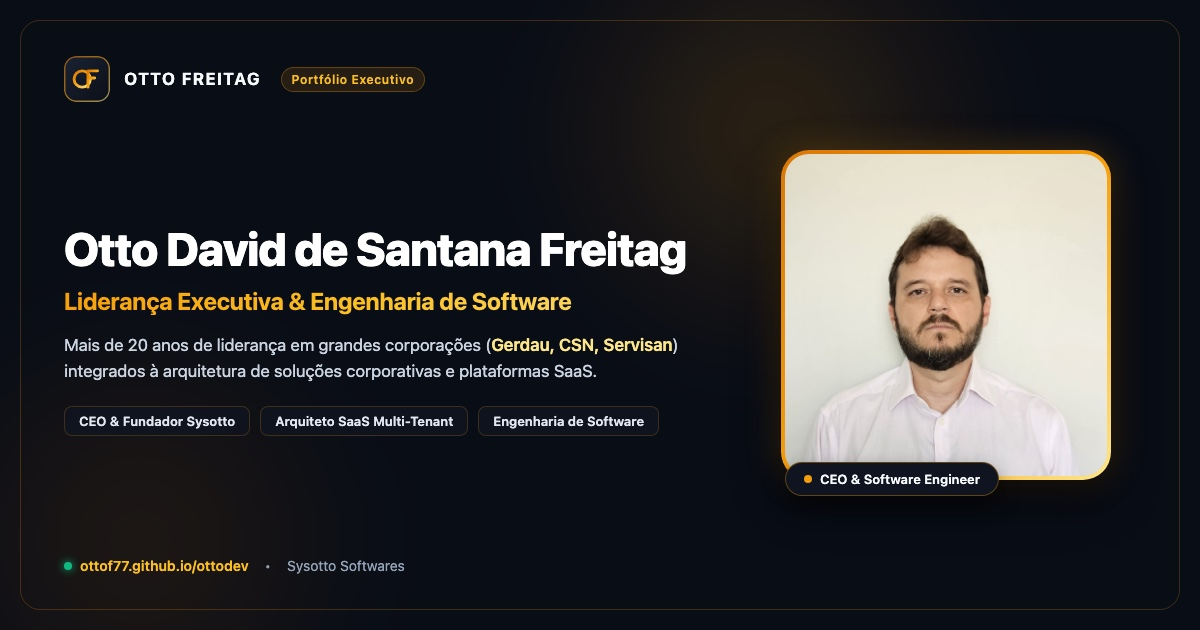
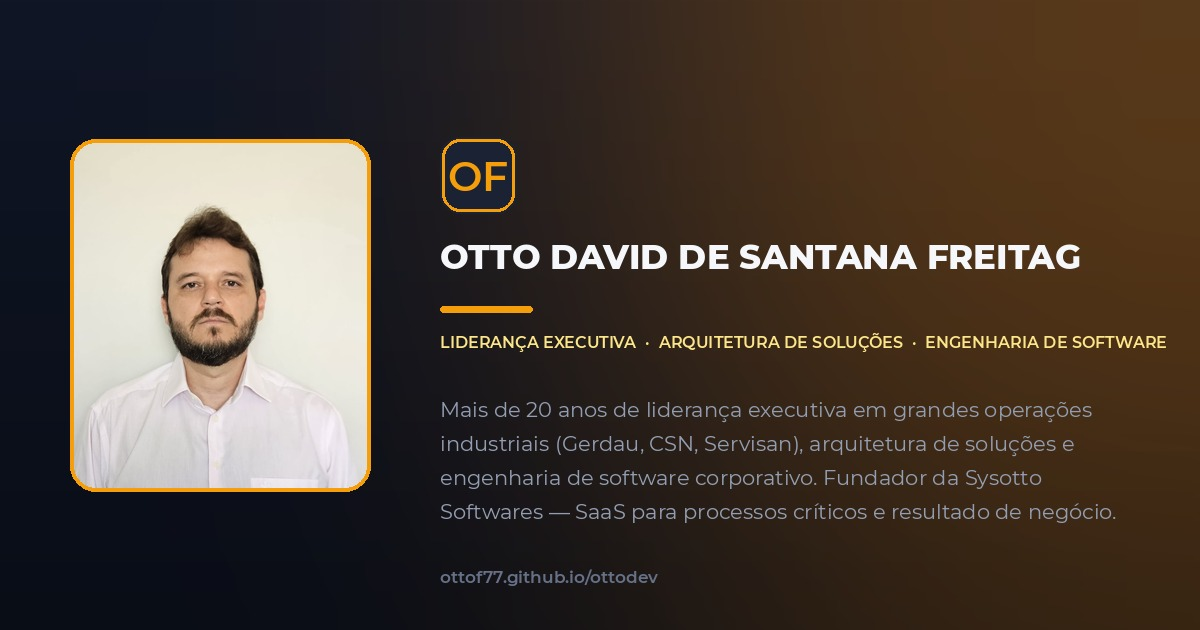
feat(seo): add 1200x630 executive OG cover card and unify meta/hero descriptions
- Generate assets/images/og-cover.jpg (1200x630) matching site brand
  (obsidian #090d16 background, gold monogram accents, executive type)
- Point og:image + twitter:image at og-cover.jpg with explicit
  width/height/type for summary_large_image cards
- Unify companies listed in meta.description and hero.subtitle
  (Gerdau, CSN, Servisan) across index.html and js/i18n.js (pt-BR, en-US)
- Add tools/make-og-cover.py so the banner is regenerable

diff --git a/js/i18n.js b/js/i18n.js
@@ -54,6 +54,7 @@ const translations = {
     'hero.title_end': 'aliadas a mais de 20 anos de liderança executiva.',
     'hero.subtitle': 'Mais de 20 anos de gestão executiva em grandes operações corporativas e industriais (Gerdau, CSN, Servisan) integrados ao desenvolvimento de software crítico e plataformas SaaS. Como Engenheiro de Software e Arquiteto de Soluções, uno visão de negócio, liderança e engenharia sólida para construir sistemas distribuídos, escaláveis e de alta confiabilidade.',
     'hero.description': 'Mais de 20 anos de gestão executiva em grandes operações corporativas e industriais (Gerdau, CSN, Servisan) integrados ao desenvolvimento de software crítico e plataformas SaaS. Como Engenheiro de Software e Arquiteto de Soluções, uno visão de negócio, liderança e engenharia sólida para construir sistemas distribuídos, escaláveis e de alta confiabilidade.',
+
     'hero.cta_projects': 'Ver Projetos & Cases',
     'hero.cta_academic': 'Ver Projetos de Engenharia',
     'hero.cta_cv': 'Baixar Currículo (PDF)',
@@ -457,6 +458,7 @@ const translations = {
     'hero.title_end': 'backed by 20+ years of executive leadership.',
     'hero.subtitle': 'Over 20 years of executive leadership across major corporate and industrial operations (Gerdau, CSN, Servisan) integrated with mission-critical software engineering. As a Software Engineer and Solutions Architect, I combine strategic business acumen, team leadership, and rigorous engineering to build distributed, scalable, and highly reliable systems.',
     'hero.description': 'Over 20 years of executive leadership across major corporate and industrial operations (Gerdau, CSN, Servisan) integrated with mission-critical software engineering. As a Software Engineer and Solutions Architect, I combine strategic business acumen, team leadership, and rigorous engineering to build distributed, scalable, and highly reliable systems.',
+
     'hero.cta_projects': 'View Projects & Cases',
     'hero.cta_academic': 'View Engineering Projects',
     'hero.cta_cv': 'Download Resume (PDF)',

diff --git a/index.html b/index.html
@@ -50,6 +50,8 @@
   <meta name="twitter:description" content="Portfólio executivo de Otto David de Santana Freitag: mais de 20 anos de liderança executiva em grandes corporações (Gerdau, CSN, Servisan), Arquiteto de Soluções e fundador da Sysotto Softwares.">
   <meta name="twitter:image" content="https://ottof77.github.io/ottodev/assets/images/og-cover.jpg">
   <meta name="twitter:image:alt" content="Card executivo de Otto Freitag">
+  <meta name="twitter:image:width" content="1200">
+  <meta name="twitter:image:height" content="630">
 
   <!-- Structured Data (Schema.org / JSON-LD) -->
   <script type="application/ld+json">

diff --git a/tools/make-og-cover.py b/tools/make-og-cover.py
@@ -1,0 +1,145 @@
+#!/usr/bin/env python3
+"""Generate the 1200x630 executive OG cover for ottodev.
+
+Reproduces the site's design language: obsidian background (#090d16),
+gold monogram gradient (#D97706 -> #FDE68A), executive typography.
+Run from the repo root:
+    python3 tools/make-og-cover.py
+Writes assets/images/og-cover.png and assets/images/og-cover.jpg (1200x630).
+"""
+import os
+from PIL import Image, ImageDraw, ImageFont, ImageFilter
+
+W, H = 1200, 630
+ROOT = os.path.dirname(os.path.dirname(os.path.abspath(__file__)))
+FONTS = os.path.expanduser("~/.fonts")
+
+GOLD_DARK = (217, 119, 6)      # #D97706
+GOLD = (245, 158, 11)          # #F59E0B
+GOLD_LIGHT = (253, 230, 138)   # #FDE68A
+WHITE = (245, 247, 250)
+MUTED = (147, 158, 178)
+BG_TOP = (16, 22, 38)
+BG_BOTTOM = (9, 13, 22)        # #090d16
+
+
+def font(name, size):
+    return ImageFont.truetype(os.path.join(FONTS, name), size)
+
+
+def fit_font(name, text, max_w, start=64, min_=24):
+    size = start
+    while size > min_:
+        f = font(name, size)
+        if f.getbbox(text)[2] - f.getbbox(text)[0] <= max_w:
+            return f, size
+        size -= 2
+    return font(name, min_), min_
+
+
+def draw_monogram(draw, cx, cy, size):
+    """Rounded obsidian square with gold rim + gold OF letters (matches monogram-of.svg)."""
+    r = size
+    x0, y0 = cx - r // 2, cy - r // 2
+    # background, 18% radius
+    draw.rounded_rectangle([x0, y0, x0 + r, y0 + r], radius=int(r * 0.27),
+                           fill=(26, 34, 52))
+    # gold rim
+    draw.rounded_rectangle([x0 + 2, y0 + 2, x0 + r - 2, y0 + r - 2],
+                           radius=int(r * 0.27) - 2, outline=GOLD, width=3)
+    f, _ = fit_font("Montserrat-SemiBold.ttf", "OF", int(r * 0.95), start=int(r * 0.55))
+    bb = draw.textbbox((0, 0), "OF", font=f)
+    tw, th = bb[2] - bb[0], bb[3] - bb[1]
+    draw.text((cx - tw / 2 - bb[0], cy - th / 2 - bb[1] + 2), "OF",
+              font=f, fill=GOLD)
+
+
+def main():
+    # Background: vertical gradient
+    bg = Image.new("RGB", (W, H))
+    px = bg.load()
+    for y in range(H):
+        t = y / H
+        r = int(BG_TOP[0] + (BG_BOTTOM[0] - BG_TOP[0]) * t)
+        g = int(BG_TOP[1] + (BG_BOTTOM[1] - BG_TOP[1]) * t)
+        b = int(BG_TOP[2] + (BG_BOTTOM[2] - BG_TOP[2]) * t)
+        for x in range(W):
+            px[x, y] = (r, g, b)
+
+    # Subtle gold radial glow, top-right
+    glow = Image.new("L", (W, H), 0)
+    gd = ImageDraw.Draw(glow)
+    gd.ellipse([W - 620, -260, W + 320, 620], fill=90)
+    glow = glow.filter(ImageFilter.GaussianBlur(220))
+    gold_overlay = Image.new("RGB", (W, H), (217, 119, 6))
+    bg.paste(gold_overlay, (0, 0), glow)
+
+    draw = ImageDraw.Draw(bg, "RGBA")
+
+    # ---- Photo card (left) ----
+    photo = Image.open(os.path.join(ROOT, "assets/images/otto-freitag.jpg")).convert("RGB")
+    card_w, card_h = 300, 352
+    pw, ph = photo.size
+    scale = max(card_w / pw, card_h / ph)
+    photo = photo.resize((int(pw * scale), int(ph * scale)), Image.LANCZOS)
+    left = (photo.width - card_w) // 2
+    top = (photo.height - card_h) // 2
+    photo = photo.crop((left, top, left + card_w, top + card_h))
+
+    mask = Image.new("L", (card_w, card_h), 0)
+    ImageDraw.Draw(mask).rounded_rectangle([0, 0, card_w, card_h], radius=26, fill=255)
+    px0, py0 = 70, 139
+    bg.paste(photo, (px0, py0), mask)
+    # gold frame
+    draw.rounded_rectangle([px0, py0, px0 + card_w, py0 + card_h],
+                           radius=26, outline=GOLD, width=4)
+
+    # ---- Text column (right) ----
+    tx = 440
+    # monogram
+    draw_monogram(draw, tx + 38, 175, 76)
+
+    # name
+    name = "OTTO DAVID DE SANTANA FREITAG"
+    f_name, _ = fit_font("Montserrat-ExtraBold.ttf", name, 660, start=52)
+    draw.text((tx, 236), name, font=f_name, fill=WHITE)
+
+    # gold divider
+    draw.rounded_rectangle([tx, 306, tx + 92, 312], radius=3, fill=GOLD)
+
+    # role line
+    role = "LIDERANÇA EXECUTIVA  ·  ARQUITETURA DE SOLUÇÕES  ·  ENGENHARIA DE SOFTWARE"
+    size = 26
+    f_role = font("Montserrat-SemiBold.ttf", size)
+    while draw.textlength(role, font=f_role) > 700 and size > 16:
+        size -= 1
+        f_role = font("Montserrat-SemiBold.ttf", size)
+    draw.text((tx, 332), role, font=f_role, fill=GOLD_LIGHT)
+
+    # tagline
+    f_tag = font("Montserrat-Regular.ttf", 21)
+    tag_lines = [
+        "Mais de 20 anos de liderança executiva em grandes operações",
+        "industriais (Gerdau, CSN, Servisan), arquitetura de soluções e",
+        "engenharia de software corporativo. Fundador da Sysotto",
+        "Softwares — SaaS para processos críticos e resultado de negócio.",
+    ]
+    y = 396
+    for ln in tag_lines:
+        draw.text((tx, y), ln, font=f_tag, fill=MUTED)
+        y += 34
+
+    # URL
+    draw.text((tx, 566), "ottof77.github.io/ottodev", font=font("Montserrat-SemiBold.ttf", 17),
+              fill=(102, 113, 136))
+
+    out_png = os.path.join(ROOT, "assets/images/og-cover.png")
+    out_jpg = os.path.join(ROOT, "assets/images/og-cover.jpg")
+    bg.save(out_png, "PNG")
+    bg.convert("RGB").save(out_jpg, "JPEG", quality=92)
+    print("wrote", out_png, bg.size)
+    print("wrote", out_jpg, bg.size)
+
+
+if __name__ == "__main__":
+    main()
